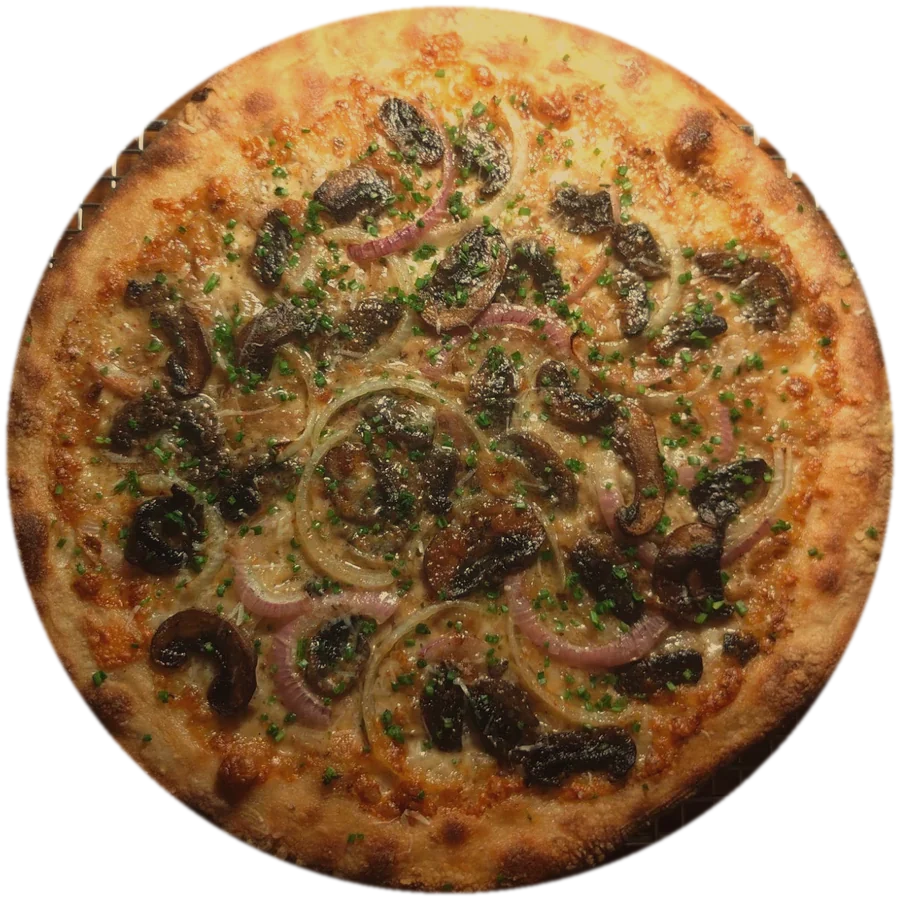
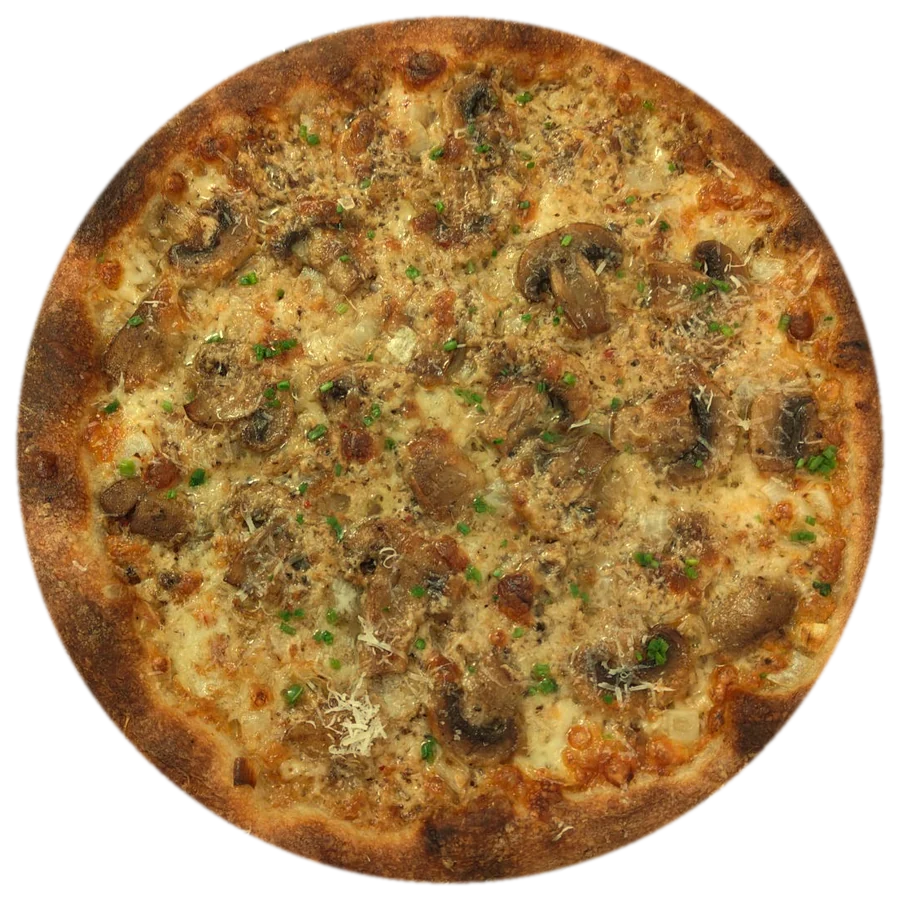
Home: new mushroom pie photo replaces the mushroom & onion pie

diff --git a/index.html b/index.html
@@ -269,7 +269,7 @@ footer .wrap a:hover{color:var(--ink)}
         <figure><img src="images/pizza-vodka.webp?v=4" alt="The Vodka pie" data-he-alt="פיצה וודקה" loading="lazy" width="900" height="900"></figure>
         <figure><img src="images/pizza-spinach-artichoke.webp?v=4" alt="The Spinach Artichoke pie" data-he-alt="פיצה תרד וארטישוק" loading="lazy" width="900" height="900"></figure>
         <figure><img src="images/pizza-pear-hot-honey.webp?v=4" alt="The Poached Pear and Hot Honey pie" data-he-alt="פיצה אגס מבושל ודבש חריף" loading="lazy" width="900" height="900"></figure>
-        <figure><img src="images/pizza-mushroom.webp?v=4" alt="Mushroom and red onion pie with chives" data-he-alt="פיצה פטריות ובצל סגול עם עירית" loading="lazy" width="900" height="900"></figure>
+        <figure><img src="images/pizza-mushroom.webp?v=5" alt="White mushroom pie with Parmesan and chives" data-he-alt="פיצה לבנה עם פטריות, פרמזן ועירית" loading="lazy" width="900" height="900"></figure>
         <figure><img src="images/pizza-margherita-burrata.webp?v=4" alt="Margherita with fresh cheese, basil and balsamic" data-he-alt="מרגריטה עם גבינה טרייה, בזיליקום ובלסמי" loading="lazy" width="900" height="900"></figure>
         <figure><img src="images/pizza-pesto-olive.webp?v=4" alt="Pesto pie with olives and shaved cheese" data-he-alt="פיצה פסטו עם זיתים וגבינה מגוררת" loading="lazy" width="900" height="900"></figure>
       </div>
